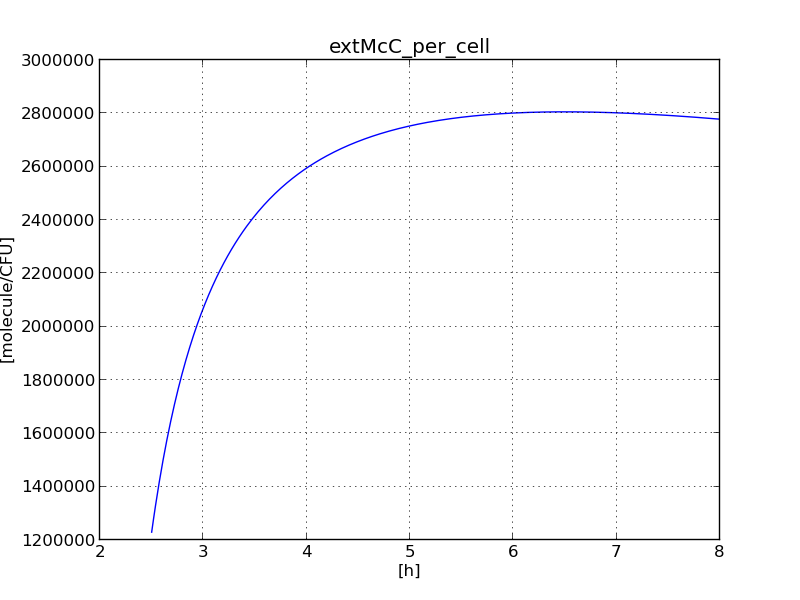
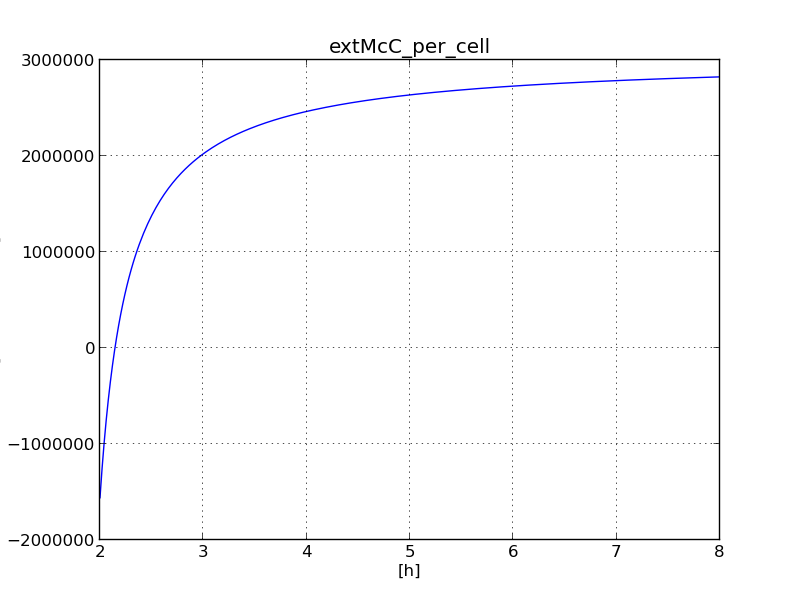
OD interpolation

diff --git a/scripts/calc-speeds.py b/scripts/calc-speeds.py
@@ -11,6 +11,7 @@ import simplejson
 import numpy as np
 import matplotlib.pyplot as plt
 from scipy.interpolate import interp1d
+import scipy.optimize
 
 import pylab
 
@@ -21,16 +22,17 @@ from unum import Unum
 unit      = Unum.unit
 avogadro  = 6.02214129e23
 
-CFU       = unit("CFU",      0,              "colony-forming unit")
+CFU       = unit("CFU",       0,              "colony-forming unit")
+OD_unit   = unit("OD",        0,              "optical density unit")
 molecule  = unit("molecule", mol / avogadro )
-#ul        = unit("ul",       10**-6 * L,     "microliter")
 ml        = unit("ml",       10**-3 * L,     "milliliter")
+#ul        = unit("ul",       10**-6 * L,     "microliter")
+
+possible_unit_expressions = { s, molecule/L, CFU/L, OD_unit }
 
 # all the equivalent to the lab-data units simple units
 def convert_units(num):
-  possible_units = { s, molecule/L, CFU/L }
-
-  for u in possible_units:
+  for u in possible_unit_expressions:
     try:
       res = num.asUnit(u)
     except IncompatibleUnitsError:
@@ -42,7 +44,7 @@ def convert_units(num):
   assert(False)
 
 time_unit = convert_units(s)
-from_time = convert_units(2.5*h)
+from_time = convert_units(2.0*h)
 to_time = convert_units(8.0*h)
 time_steps = 300
 grid = time_unit * np.linspace(from_time.asNumber(), to_time.asNumber(), time_steps)
@@ -67,24 +69,26 @@ def myplot(data, title, X=None, Y=None):
   pylab.close()
 
 """ returns a polynomial"""
-def approx(X, Y, polydeg, var_name):
+def approx_poly(X, Y, polydeg, var_name):
   coefs = np.polyfit(X.asNumber(), Y.asNumber(), polydeg)
   poly = np.poly1d(coefs)
   data = Unum(Y._unit) * array( poly(grid.asNumber()) )
 
-  title = var_name + '-polyfit-deg' + str(polydeg)
-  myplot(data, title, X, Y)
-
   return data
 
-  img_file = os.path.join(data_dir, title + '.png')
-  plt.subplot(111)
-  plt.plot(X.asNumber(), Y.asNumber(), 'o', grid.asNumber(), data.asNumber(), '-')
-  plt.legend(['data', 'deg'+str(polydeg)], loc='best')
-  pylab.title(var_name)
-  plt.savefig(img_file)
-  plt.close()
-  print "A figure saved in", img_file
+def sigmoid(p,x):
+    x0,y0,c,k=p
+    y = c / (1 + np.exp(-k*(x-x0))) + y0
+    return y
+
+def residuals(p,x,y):
+  return y - sigmoid(p,x)
+
+def approx_gompetz(X, Y):
+  p_guess = (np.median(X.asNumber()), np.median(Y.asNumber()), 1.0, 0.001)
+  p, cov, infodict, mesg, ier = scipy.optimize.leastsq(residuals, p_guess,
+        args=(X.asNumber(),Y.asNumber()), full_output=1)  
+  data = Unum(Y._unit) * [ sigmoid(p, x) for x in grid.asNumber() ]
   
   return data
 
@@ -101,8 +105,17 @@ def extract(var_name, deg):
   if all_data.has_key(var_name):
     data = all_data[var_name]
     X = unit_array(data["time"])
-    Y = unit_array(data["concentration"])
-    return approx(X, Y, deg, var_name)
+    Y = unit_array(data["value"])
+    
+    if var_name == 'OD':
+      func = approx_gompetz(X, Y)
+    else:
+      func = approx_poly(X, Y, deg, var_name)
+
+    title = var_name + '-polyfit-deg' + str(deg)
+    myplot(func, title, X, Y)
+
+    return func
   else:
     print 'No %s data.' % variable
     assert(False)
@@ -129,19 +142,19 @@ def calc_per_cell_per_time(product, cells, product_name):
 
 def process():
   #MccB    = extract('MccB', 2)
-  extMcC  = extract('extMcC', 2)
+  extMcC  = extract('extMcC', 1)
   cells   = extract('cells', 1)
+  OD      = extract('OD', 1)
 
   #calc_per_cell(MccB, cells, 'MccB')
   calc_per_cell(extMcC, cells, 'extMcC')
   calc_per_cell_per_time(extMcC, cells, 'extMcC')
 
 if __name__ == '__main__': 
-# takes a simplejson file with consts from lab experiments
-  assert( len(sys.argv)==2 )
-
-  data_file = sys.argv[1]
-  data_dir = os.path.dirname(data_file)
-  all_data = read_json(data_file)
-
-  process()
+  if len(sys.argv) != 2:
+    print 'One argument needed: simplejson file with consts from lab experiments'
+  else:
+    data_file = sys.argv[1]
+    data_dir = os.path.dirname(data_file)
+    all_data = read_json(data_file)
+    process()
